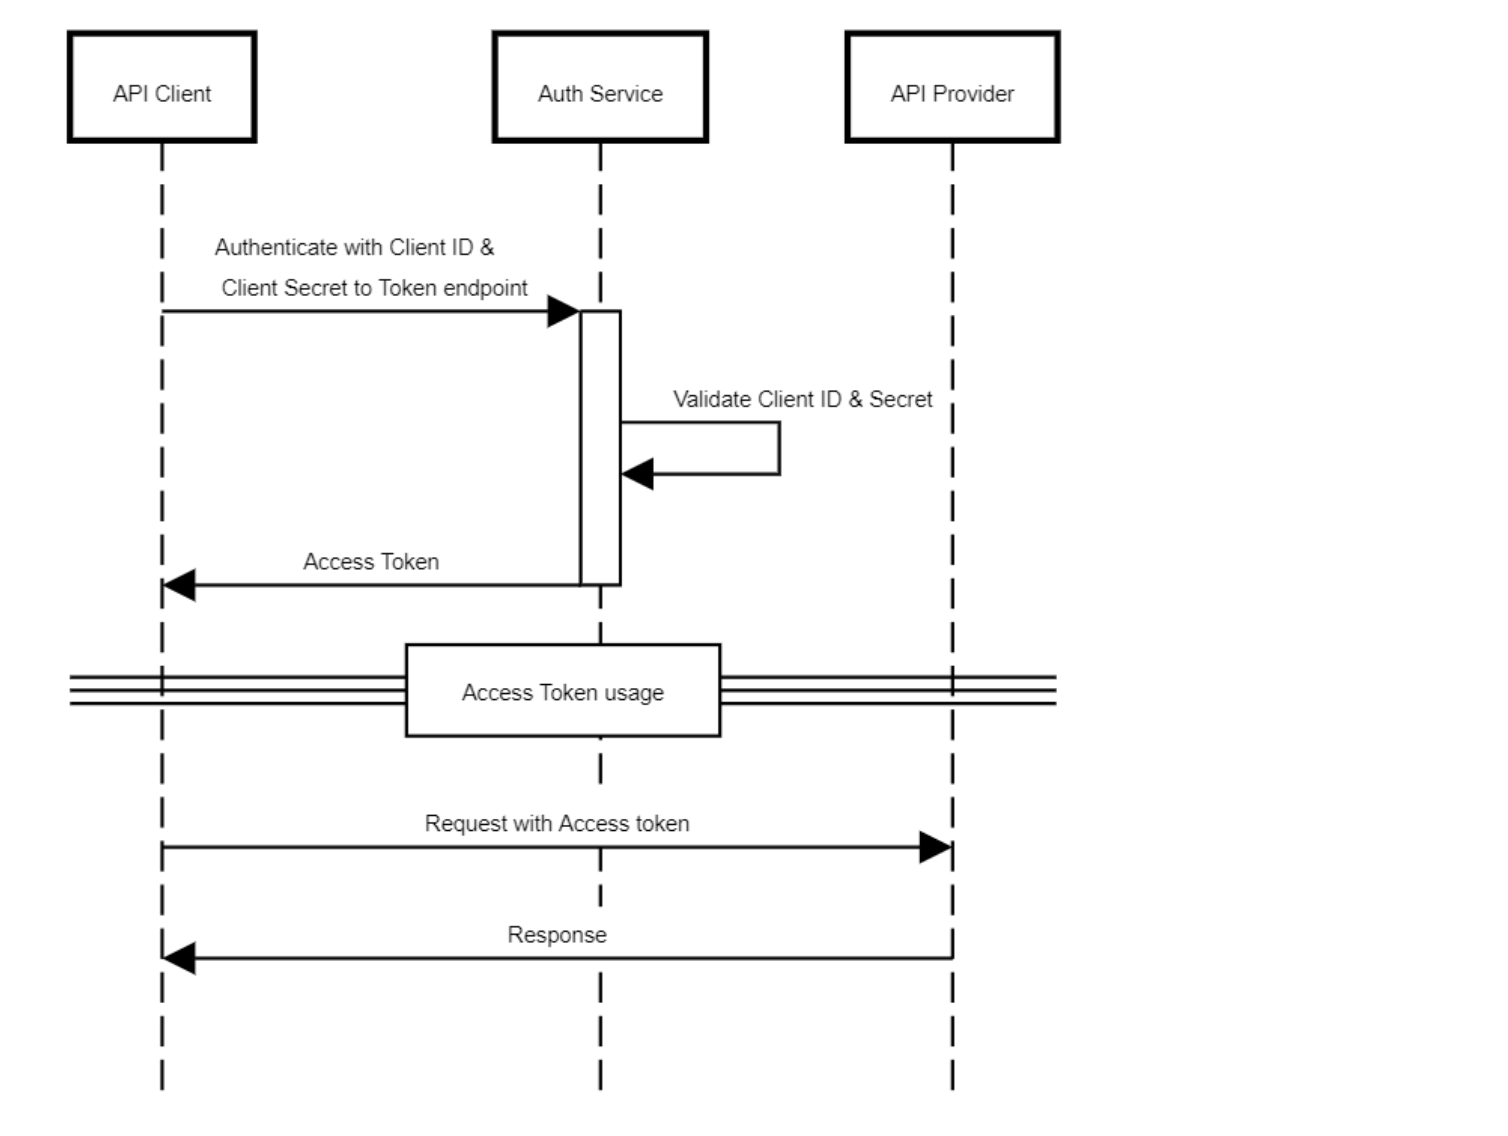
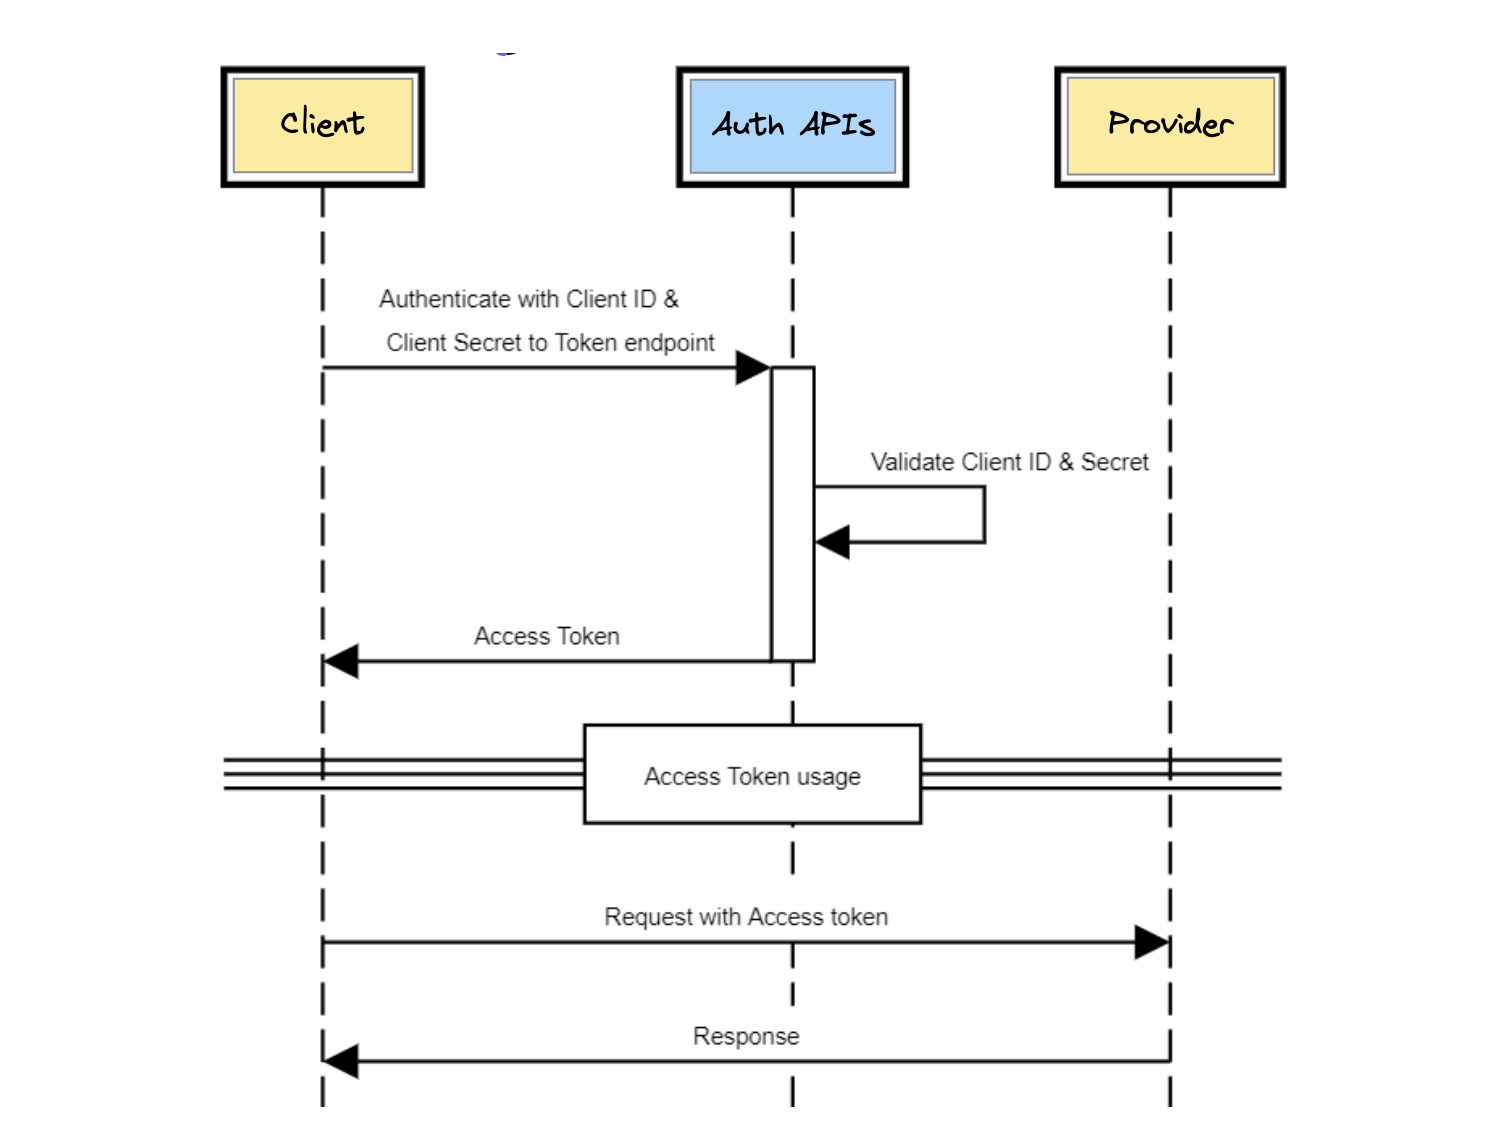
Updated the documentation (#34)
* Fix typo

* Fix Wave 1 participants

* Update Auth details in the documentation

* Fix CR comments

diff --git a/docs/7-auth_service/1-overview.md b/docs/7-auth_service/1-overview.md
@@ -4,42 +4,42 @@ sidebar_position: 1
 
 # Overview
 
-The Auth service performs two key elements of security on the platform:
+The OCEN 4.0 Auth APIs perform two key elements of security on the platform:
 
 1. **Identity Verification:** 
     * Ensure that all entities are properly identified. 
-    * Auth service uses OAuth 2.0 and OpenID Connect protocols for the same.
+    * Auth APIs uses OAuth 2.0 and OpenID Connect protocols for the same.
 
 2. **Integrity and Non-Repudiation:**
     * Ensure authenticity & completeness of data exchanged between entities
     * This is achieved through digital signatures
 
-All participants must register with Auth Service as client, as well as on Participant Registry with their API endpoints & public key. Each participant in the ecosystem may play the role of either being both or being one of an API provider and an API client to communicate with other modules. 
+All participants must register on the Participant Registry with their API endpoints & public key. Each participant in the ecosystem may play the role of either being both or being one of an API Provider and an API Client to communicate with other modules. 
 
 ## Sample flow
 
-Consider a sample API request in the platform from an API client to an API Provider.
+Consider a sample API request in the platform from a client participant (say Loan Agent) to a Provider participant (say Lender).
 
-1. API Clients need an [access token](./3-access_token.md) to present to the API providers, for them to authorize the calls.
-2. API providers need access to the public key of token issuing Auth Service, to validate the access token presented by an API client.
-3. API providers, upon identifying the API caller using the access token, further need access to the public key of the API caller available at the Participant Registry to verify the integrity of digitally signed request sent by API client.
-4. On similar lines to (3), API Clients, while receiving response to their requests, also need access to the API Provider’s public key to verify the digitally signed response from the API provider.
+**Client** needs to include an [access token](./3-access_token.md) in their call to present to the Provider so that Provider can authenticate and authorize the Client. Client can fetch its Auth Token from the OCEN Registry on the GenerateAccessToken API by passing in it's clientID and clientSecret.
+
+**Provider** needs access to the public key of the Client to validate the access token presented by an API client. The access token includes the participantID of the Client. If the Provider does not have the public key of the Client, the Provider can fetch the public key of the Client by calling the GetParticipantDetails API to verify the integrity of digitally signed request sent by Client.
+
+Both particpants switch roles when the Provider needs to send a response back to the Client. The details of the Secure Auth flow are described [here](./2-auth_flow.md).
 
 ![Auth API Flow](./_images/auth_api_flow.png "Auth API Flow")
 
-## Onboarding
+## Participant Onboarding
 
-1. Reach out to Participant Registry administrators using an established channel (email, slack etc.) to get on boarded onto the OCEN ecosystem with following required details:
+1. Reach out to OCEN Registry administrators using an established channel (see FAQs for details) to get on boarded onto the OCEN ecosystem with following required details:
    - Participant Type
-   - API Endpoint
+   - API Endpoint (base URL where other participants can call them)
    - Public Certificate Key
-2. **Client Id & Secret** are issued as final output of this process using the Authentication Service.
-3. Participant Registry is updated with participants details (API endpoint, Public key).
+2. **Client ID & Client Secret** are issued to the participant as final output of this process.
+3. OCEN Registry is updated with participants details (API endpoint, Public key).
 
-## Offboarding
+## Participant Offboarding
 
-1. Using an established channel (email, slack etc.) notify Participant Registry administrators to trigger the offboarding process.
-2. Client Id & Secret are deactivated and removed from the authentication service.
-3. Module API endpoint & public key entries are removed from Participant Registry.
-4. All resource mappings are removed.
+1. Using an established channel (email, slack etc.) notify OCEN Registry administrators to trigger the offboarding process.
+2. Client ID & Client Secret are deactivated and removed from the Auth component.
+3. All resource mappings are removed.
 

diff --git a/docs/7-auth_service/2-auth_flow.md b/docs/7-auth_service/2-auth_flow.md
@@ -3,22 +3,20 @@ sidebar_position: 2
 ---
 # Secure API Calls Flow
 
-Every OCEN participant may be an API provider or an API client. In these roles:
-
-1. API Clients need an access token to present to the API providers to authorize the calls.
-2. API providers need access to the public key of token issuing OCEN Auth Service to validate the access token presented by an API client.
-3. Upon identifying the API caller using the access token, API providers need access to the public key of the API caller available at the Gateway to verify the integrity of the digitally signed request sent by the API client.
-4. Along similar lines to (3), API Clients, while receiving the response to their requests, also need access to the API Provider’s public key to verify the digitally signed response from the API provider.
+Every OCEN participant may be an API Provider or an API Client. In these roles:
+1. API Clients need an access token to present to the API Provider to authorize the calls.
+2. API Provider need access to the public key of token issuing OCEN Auth Component to validate the access token presented by an API client.
+3. Upon identifying the caller using the access token, API Provider need access to the public key of the API Client to verify the integrity of the digitally signed request sent by the API Client.
+4. Along similar lines to (3), API Client, while receiving the response to their requests, also need access to the API Provider’s public key to verify the digitally signed response from the API Provider.
 
 Following is a sample interaction between a Lender and a Loan Agent(LA), following the security guidelines mentioned here:
+1. LA obtains an access token from Auth Component by calling the GenerateAccessToken API
+2. LA fetches the endpoint location of the lender by caling the GetNetworkParticipantDetails API.
+3. LA calls the lender, attaches its access token to `Authorization` header & attaches body `Signature` header as well.
+4. Lender determines the ParticipantID of the LA from the access token
+5. Lender fetches the public key of the LA, by caling the GetNetworkParticipantDetails API
+6. Lender verifies the Signature header in the LA's request and proceeds to process the request
+
+When the Lender responds back to LA, its includes own access token and response body `Signature` header attached as done by LA in steps 1-3. Similarly upon receiving the same from the Lender, LA fetches the public key of the Lender, verifies if the request is valid as done by Lender in Steps 4-5.
 
 ![Secure interaction sample between Loan Agent(LA) & Lender](./_images/secure-interaction-flow.png "Secure Interaction Flow")
-
-1. Loan Agent(LA) obtains an access token from Auth Service
-    1. Uses the access token to fetch endpoint location of the lender(s).
-2. Loan Agent(LA) call lender(s), attaches the access token to `Authorization` header & attaches body `Signature` header as well.
-3. Lender, fetches two keys, to validate incoming requests: 
-    1. Public key of the Auth service to verify the Authorization header
-    2. Public key of the Loan Agent(LA), registered on the Gateway, to verify the Signature header.
-4. Respond back to Loan Agent(LA), with response body `Signature` header attached.
-5. Loan Agent(LA), fetches public key of the lender from gateway & processes the request if valid.

diff --git a/docs/5-ocen_registries.md b/docs/5-ocen_registries.md
@@ -2,27 +2,27 @@
 sidebar_position: 5
 ---
 
-# Registries and Product Network
+# OCEN Registry and Product Network
 
-OCEN 4.0 introduces two separate registries - **Participant Registry** for Participants, and **Product Registry** for Products, that are maintained via SROs. All participants that serve a product do so as part of a **Product Network**.
+OCEN 4.0 introduces two separate registries - **Participant Registry** for Participants, and **Product Registry** for Products, that are maintained via SROs. These registries are accessed via a shared UI portal and are also referred together as the **OCEN Registry**. All participants that serve a product do so as part of a **Product Network**.
 
-These registries and the product network are part of the initial onboarding process onto OCEN 4.0.
+These registries and the product network are part of the initial onboarding process onto OCEN 4.0. 
 
 # Participant Onboarding
 
-All participants are onboarded to OCEN 4.0 via the participant registry. A standard onboarding process is followed for all participants, and their verification is guaranteed by SROs to ensure that new members receive an equivalent level of trust within the network.
+All participants are onboarded to OCEN 4.0 via the participant onboarding in the Participant Registry. A standard onboarding process is followed for all participants, and their verification is guaranteed by SROs to ensure that new members receive an equivalent level of trust within the network.
 
 ![Participant Registry](./_images/participant_registry.png "Participant Registry")
 
 # Product and Product Network onboarding
 
-Lender will create & manage the Product and the Loan Agent will create & manage the Product Network to serve that product. All participants in OCEN 4.0 can browse the Products and Product Networks on the Product Registry and subscribe to serve a Product via the Product Networks.
+Lender will create & manage the Product via the Product Registry and the Loan Agent will create & manage the Product Network to serve that product. All participants in OCEN 4.0 can browse the Products and Product Networks on the Product Registry and subscribe to serve a Product via the Product Networks.
 
 ![Product Registry](./_images/product_registry_and_network.png "Product Registry")
 
 # Registry access
 
-The OCEN registries will be accessed via a **UI portal**. The portal will enable registration, management and discoverability of products, participants and product networks.
+The OCEN registry will be accessed via a **UI portal**. The portal will enable registration, management and discoverability of products, participants and product networks.
 
 The OCEN 4.0 specification include APIs to programatically fetch the details of a product or a participant. These APIs can be used by the participants as part of the Loan Journey.
 

diff --git a/docs/4-ocen_components.md b/docs/4-ocen_components.md
@@ -6,16 +6,16 @@ sidebar_position: 4
 
 The components of OCEN 4.0 are captured below. These include:
 
-1. **Registries:** 
-    * **Participant Registry:** Manages all participants in the platform 
-    * **Product Registry:** Manages all products in the platform
+1. **OCEN Registry:** OCEN Registry helps manage
+    * **Participant Registry:** Manages all participants on OCEN
+    * **Product Registry:** Manages all products on OCEN
     * **Product Network & Network Policies:** Manages the serving of the product via a network of participants via defined network policies
+    * **Authentication:** Enables security on the platform by providing client credentials
 
-2. **Services**
-    * **Auth service:** Enables security on the platform
-    * **Heartbeat and Analytics service:** Enables intrumentation across the loan journey and the requests for performance monitoring on the network and to drive business analytics
-    * **Credit Gurantees service:** Verifies eligibility of a borrower for a credit gurantee
+2. **Heartbeat and Analytics service** This service enables intrumentation across the loan journey and the requests for performance monitoring on the network and to drive business analytics.
 
-3. **OCEN 4.0 APIs**
+3. **Credit Gurantees service:** Verifies eligibility of a borrower for a credit gurantee with CGTMSE.
+
+4. **OCEN 4.0 APIs** API specification for the participants to communicate with each other and the OCEN components.
 
 ![OCEN Components](./_images/ocen_components.png "OCEN Components")

diff --git a/docs/7-auth_service/4-message_signing.md b/docs/7-auth_service/4-message_signing.md
@@ -4,7 +4,7 @@ sidebar_position: 4
 # Message Signing
 
 While the authentication mechanism of associating an incoming request with a set of identifying credentials 
-is provided by the Auth Service. To provide the integrity and **non-repudiation**, whereby both parties (i.e., API Consumer & Provider) can assure themselves that the request and responses have originated by the private key holder and no message tampering has occurred somewhere in the connection, all requests must be digitally signed by the API consumer and all responses likewise must be signed by the API provider.
+is provided by the Auth Service. To provide the integrity and **non-repudiation**, whereby both parties (i.e., API Client & Provider) can assure themselves that the request and responses have originated by the private key holder and no message tampering has occurred somewhere in the connection, all requests must be digitally signed by the API consumer and all responses likewise must be signed by the API provider.
 
 > SSL/mTLS (mutual TLS) provides an additional layer of security for data in transit. Such layered security approach ensures that each defense component has a backup to counter any flaws or gaps in the security.
 

diff --git a/docs/7-auth_service/3-access_token.md b/docs/7-auth_service/3-access_token.md
@@ -3,7 +3,7 @@ sidebar_position: 3
 ---
 # Access Token
 
-The Auth Service provides the dynamic and short-lived access token to each API client in the ecosystem. These access tokens are formatted as [JSON Web Token](https://datatracker.ietf.org/doc/html/rfc7519) (JWT). Each JWT is digitally signed by the Auth Service, as the issuer of the token. The digitally-signed access token is inserted into API authorization headers by the API client, as its identity token, for every call made to any API provider in the ecosystem.
+The Auth Component provides dynamic and short-lived access token to each API Client in the ecosystem. These access tokens are formatted as [JSON Web Token](https://datatracker.ietf.org/doc/html/rfc7519) (JWT). Each JWT is digitally signed by the Auth Service, as the issuer of the token. The digitally-signed access token is inserted into API authorization headers by the API client, as its identity token, for every call made to any API provider in the ecosystem.
 
 JWTs are issued with a lifespan of 24 hours. So, all ecosystem API clients are expected to refresh their tokens every 24 hours.
 

diff --git a/docs/faqs.md b/docs/faqs.md
@@ -5,6 +5,12 @@ sidebar_position: 12
 # FAQs
 
 Following is a list of commonly asked questions around the OCEN 4.0 pilot.
+
+## Contact Channels
+
+#### What is the preferred channel for contacting OCEN 4.0 administrators?
+Please reach out to the team at contact@ocen.dev
+
 ## Product Creation and Registry
 
 #### What type of products are we looking to pilot on OCEN 4.0?
